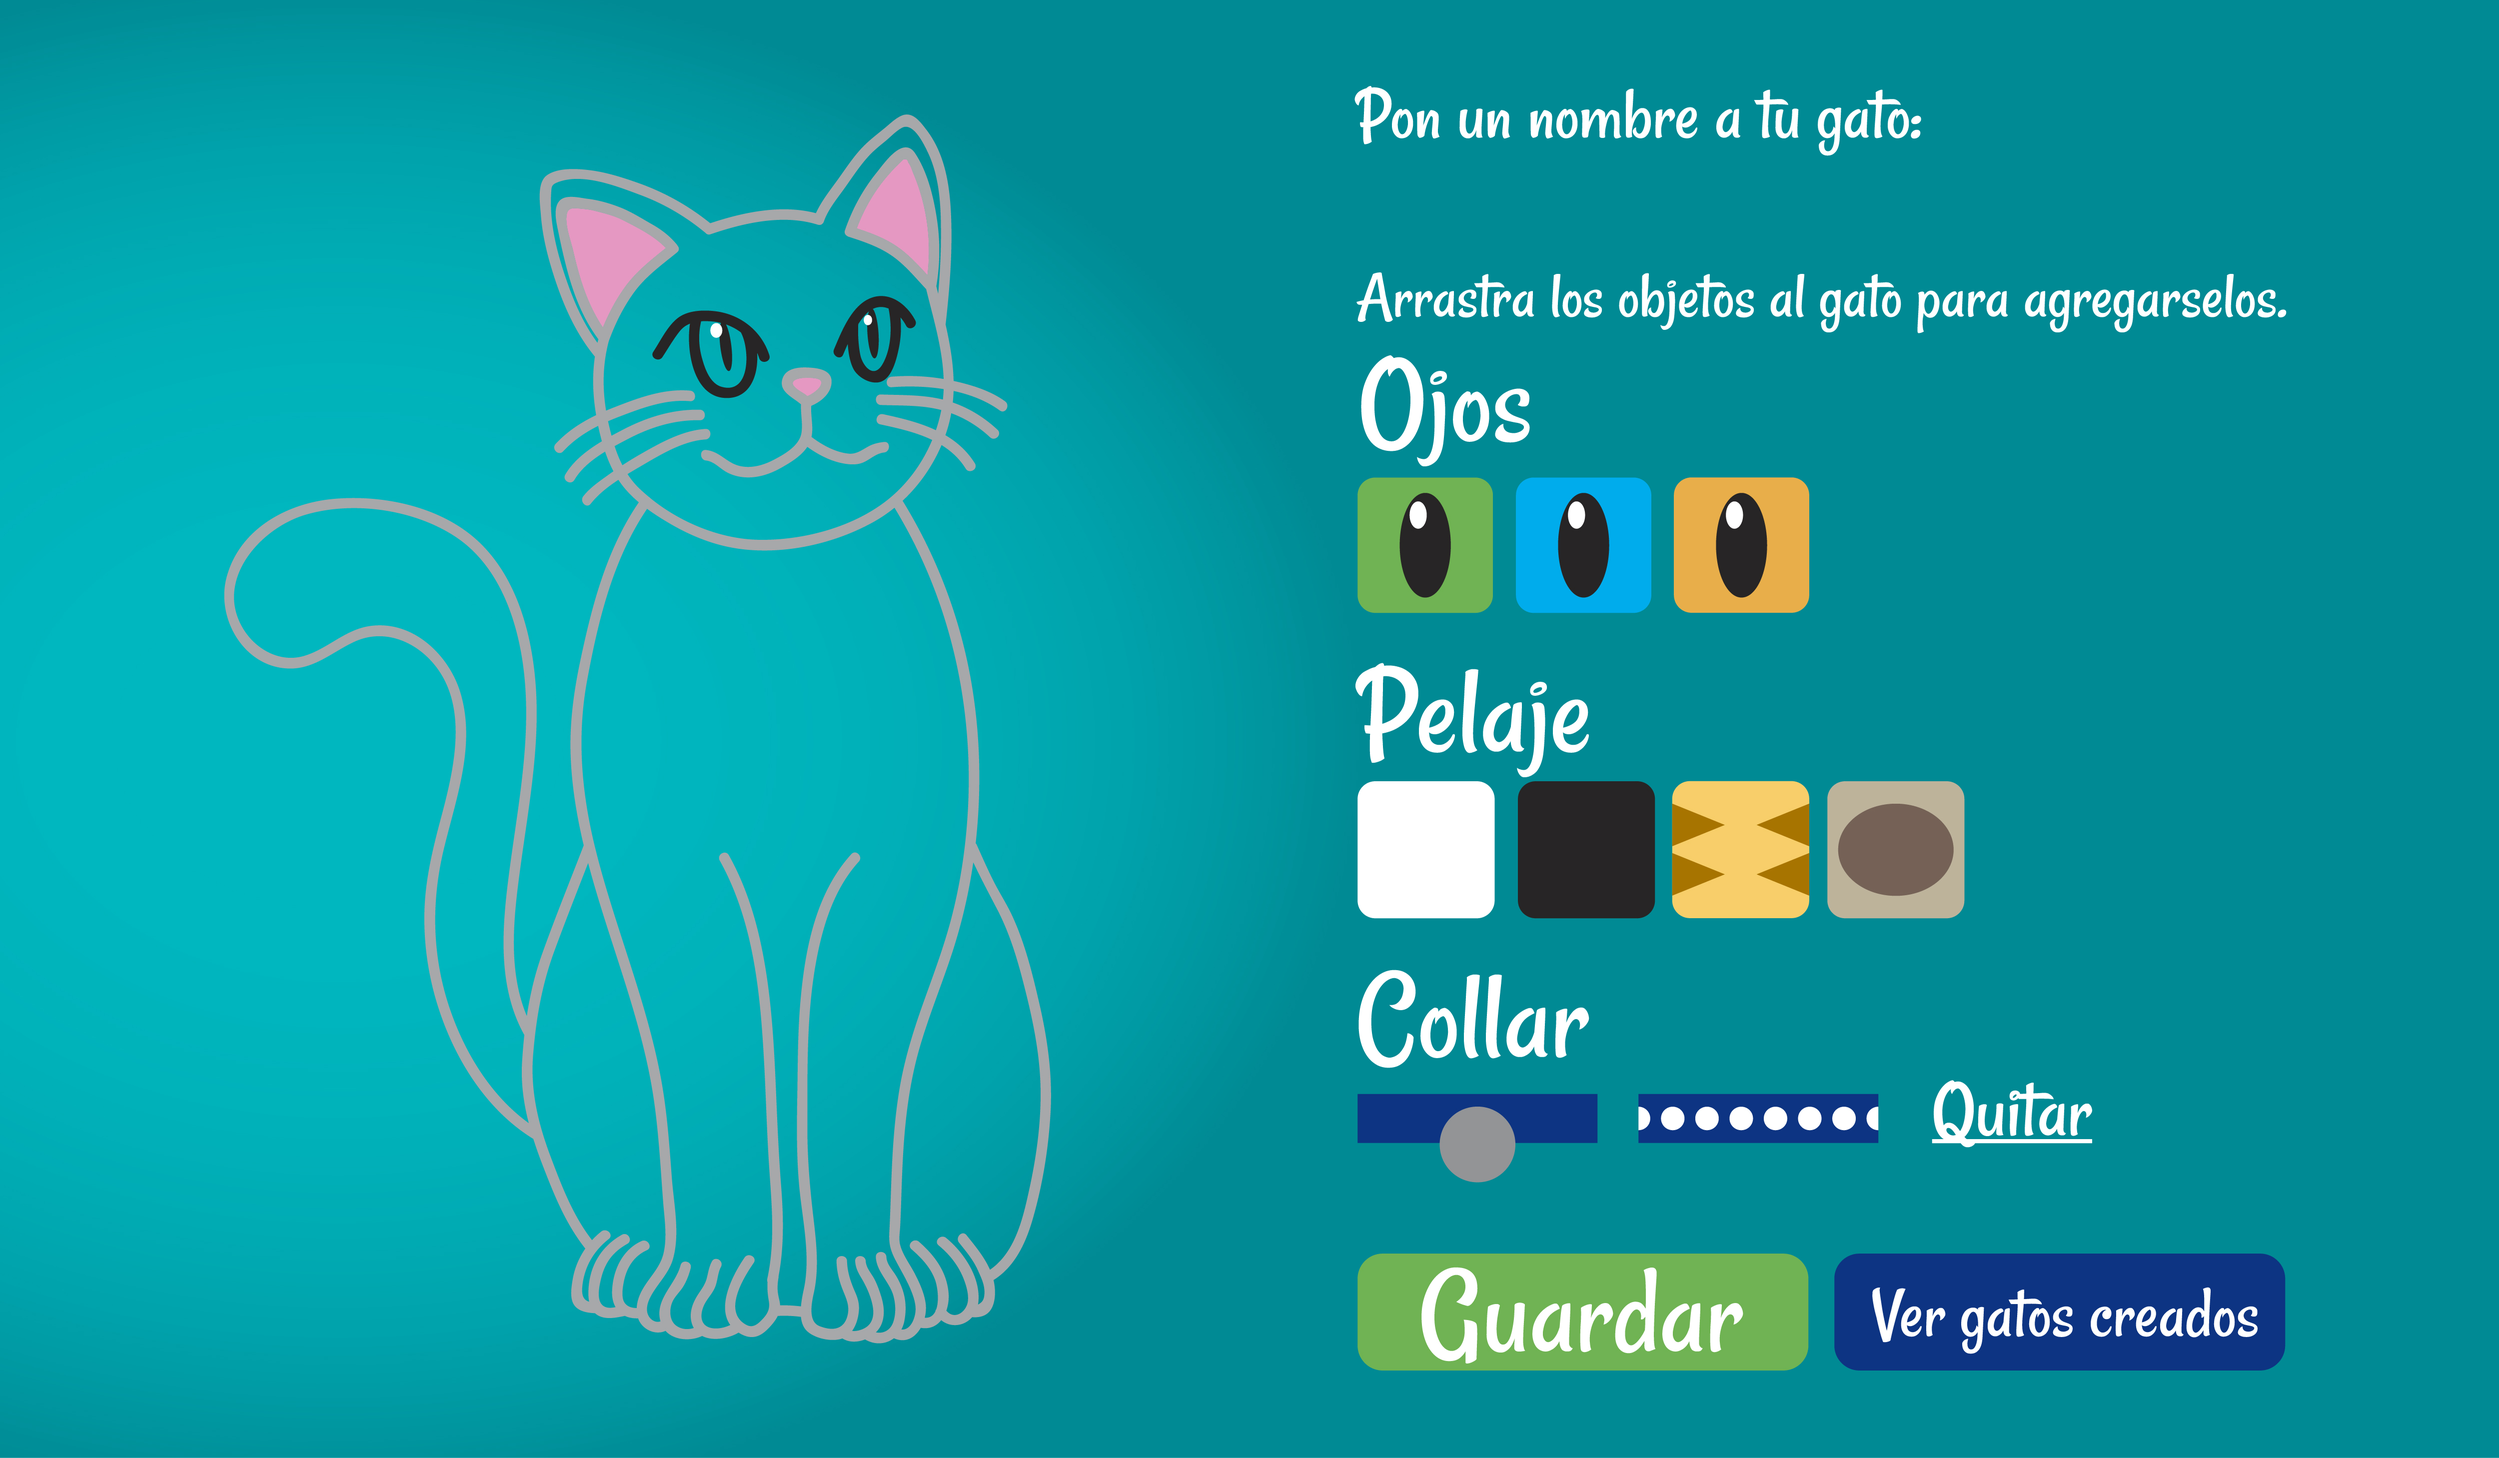
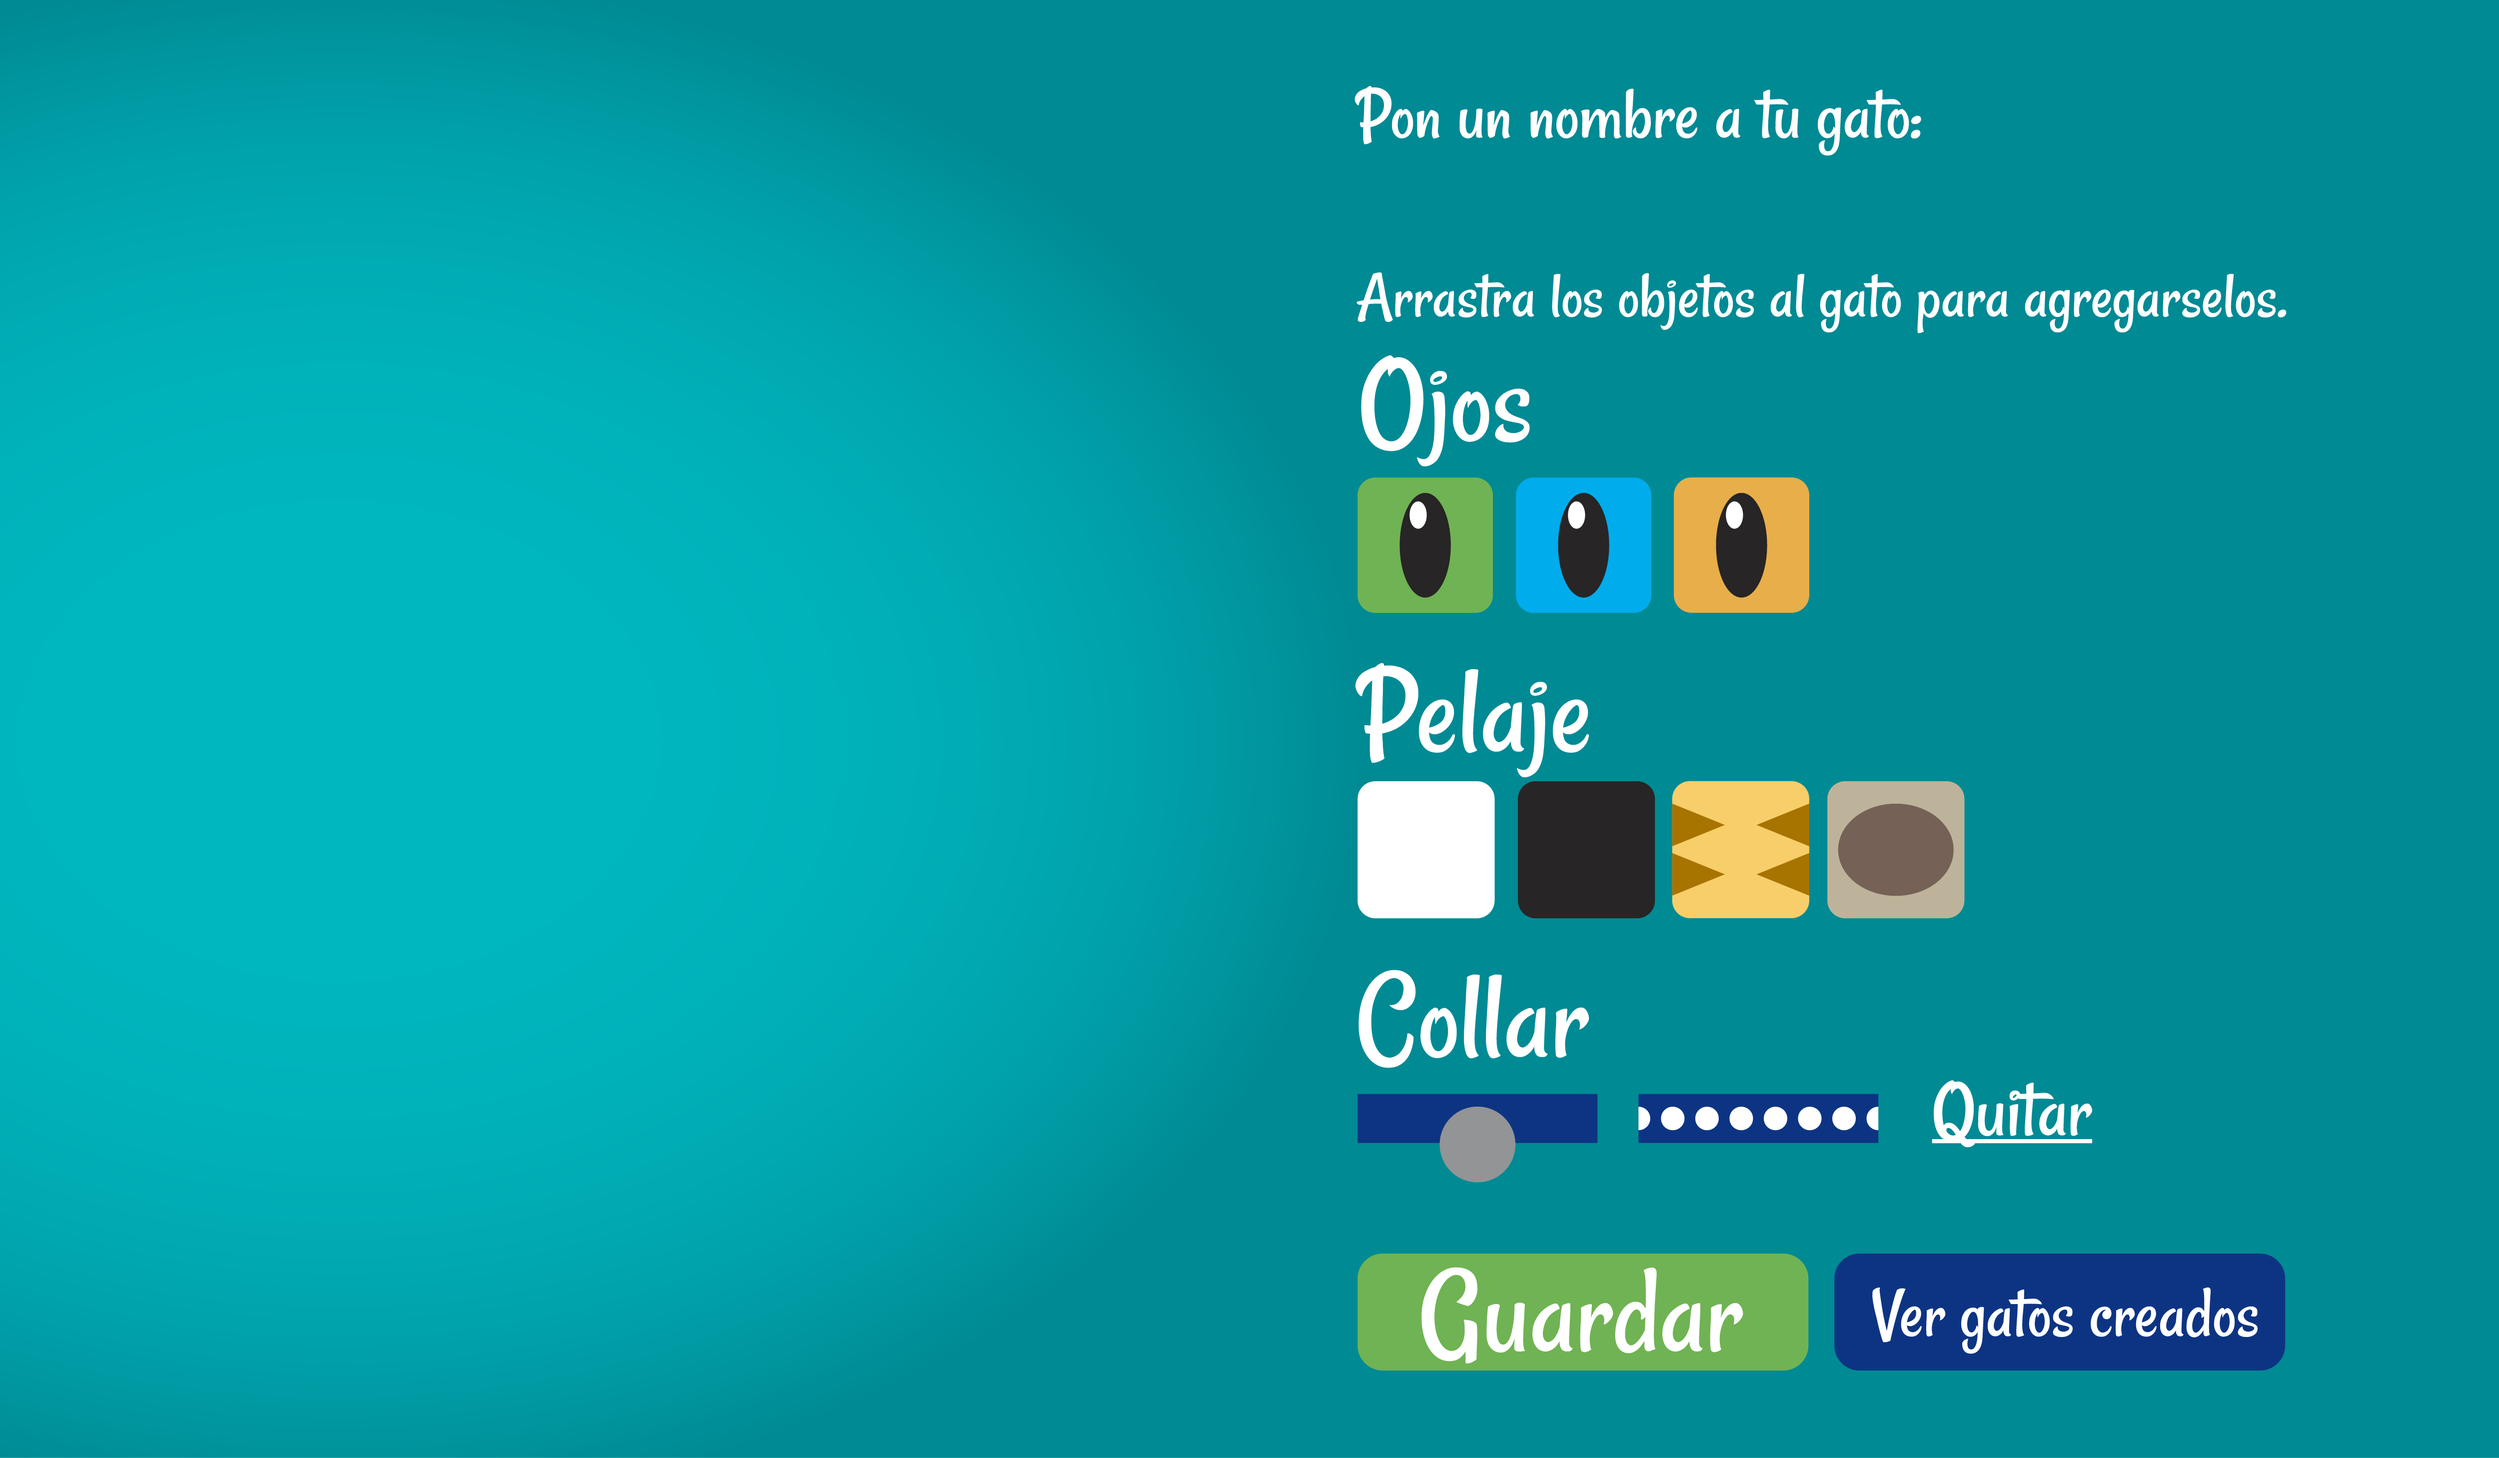
Agregue las pantallas y el input

diff --git a/src/js/modelo/Logica.js b/src/js/modelo/Logica.js
@@ -2,6 +2,7 @@ class Logica {
     constructor() {
         this.inicio = new Inicio();
         this.creador = new Creador();
+        this.guardado = new Guardado();
         this.pantalla = 0;
     }
 
@@ -12,12 +13,15 @@ class Logica {
                 break;
             case 1:
                 this.creador.dibujarCreador();
+                break;
+            case 2:
+                this.guardado.dibujaGuardado();
             default:
                 break;
         }
     }
 
-    cambiarPantalla() {
+    interaccionPantalla() {
         switch (this.pantalla) {
             case 0:
                 if (mouseX > 479 && mouseX < 717 && mouseY > 476 && mouseY < 562) {
@@ -25,9 +29,27 @@ class Logica {
                 }
                 break;
             case 1:
+                this.creador.activarInput(mouseX, mouseY);
+                if (mouseX > 881 && mouseX < 1096 && mouseY > 603 && mouseY < 656) {
+                    this.pantalla = 2;
+                }
+                break;
+            case 2:
+                if (mouseX > 64 && mouseX < 278 && mouseY > 51 && mouseY < 108) {
+                    this.pantalla = 1;
+                }
                 break;
             default:
                 break;
         }
+    }
+
+    escribirNombre() {
+        this.creador.escribirTextoInput(key);
+    }
+
+    borrarNombre() {
+        this.creador.eliminarTextoInput();
+
     }
 }

diff --git a/src/js/vista/Creador.js b/src/js/vista/Creador.js
@@ -1,9 +1,42 @@
 class Creador {
     constructor() {
-        this.pantalla = loadImage("./data/creador.jpg")
+        this.pantalla = loadImage("./data/creador.jpg");
+        this.input = new Input(655, 77);
+        this.personaje = new Personaje();
     }
 
     dibujarCreador() {
+        imageMode(CORNER);
         image(this.pantalla, 0, 0, 1200, 700);
+        if ((mouseX > 881 && mouseX < 1096 && mouseY > 601 && mouseY < 658) || (mouseX > 652 && mouseX < 868 && mouseY > 601 && mouseY < 658)) {
+            cursor(HAND);
+        } else {
+            cursor(ARROW);
+        }
+        this.input.pintar();
+        this.input.mostarTexto();
+        this.personaje.dibujarBase();
+        imageMode(CORNER);
+    }
+
+    activarInput(mX, mY) {
+        if (mX > 655 && mX < 920 && mY > 77 && mY < 107) {
+            this.input.setActivar(true);
+        } else {
+            this.input.setActivar(false);
+        }
+    }
+
+    escribirTextoInput(k) {
+        if (this.input.getActivar() && this.input.getTexto().length < 20) {
+            this.input.setTexto(this.input.getTexto() + k);
+        }
+    }
+
+    eliminarTextoInput() {
+        if (this.input.getActivar() && this.input.getTexto().length - 1 >= 0) {
+            let indice = this.input.getTexto().length - 1;
+            this.input.setTexto(this.input.getTexto().substring(0, indice));
+        }
     }
 }

diff --git a/src/js/modelo/Personaje.js b/src/js/modelo/Personaje.js
@@ -1,0 +1,60 @@
+class Personaje {
+    constructor(posX, posY, nombre, id, fecha) {
+        this.posX = posX;
+        this.posY = posY;
+        this.nombre = nombre;
+        this.id = id;
+        this.fecha = fecha;
+        this.pintarBase = loadImage("./data/basegato.png");
+    }
+
+    dibujarBase() {
+        imageMode(CENTER);
+        image(this.pintarBase, 306.186, 350);
+    }
+
+    moverPersonaje(mX, mY){
+        //if(mX>)
+    }
+
+    getPosX() {
+        return this.posX;
+    }
+
+    setPosX(posX) {
+        this.posX = posX;
+    }
+
+    getPosY() {
+        return this.posY;
+    }
+
+    setPosY(posY) {
+        this.posY = posY;
+    }
+
+    getNombre() {
+        return this.nombre;
+    }
+
+    setNombre(nombre) {
+        this.nombre = nombre;
+    }
+
+    getId() {
+        return this.id;
+    }
+
+    setId(id) {
+        this.id = id;
+    }
+
+    getFecha() {
+        return this.fecha;
+    }
+
+    setFecha(fecha) {
+        this.fecha = fecha;
+    }
+
+}

diff --git a/src/js/vista/Input.js b/src/js/vista/Input.js
@@ -1,0 +1,57 @@
+class Input {
+    constructor(posX, posY) {
+        this.posX = posX;
+        this.posY = posY;
+        this.activar = false;
+        this.texto = "";
+    }
+
+    pintar() {
+        if (this.activar) {
+            stroke(255, 0, 0);
+        } else {
+            stroke(0);
+        }
+        fill(255);
+        rect(this.posX, this.posY, 265, 30);
+    }
+
+    mostarTexto() {
+        fill(0);
+        noStroke()
+        textSize(15);
+        text(this.texto, this.posX + 10, this.posY + 20);
+    }
+
+    getPosX() {
+        return this.posX;
+    }
+
+    setPosX(posX) {
+        this.posX = posX;
+    }
+
+    getPosY() {
+        return this.posY;
+    }
+
+    setPosY(posY) {
+        this.posY = posY;
+    }
+
+    getActivar() {
+        return this.activar;
+    }
+
+    setActivar(activar) {
+        this.activar = activar;
+    }
+
+    getTexto() {
+        return this.texto;
+    }
+
+    setTexto(texto) {
+        this.texto = texto;
+    }
+}

diff --git a/src/js/vista/Ejecutable.js b/src/js/vista/Ejecutable.js
@@ -10,10 +10,17 @@ function draw() {
     logica.dibujarPantalla();
 }
 
+function keyTyped() {
+    if (keyCode != BACKSPACE) {
+        logica.escribirNombre();
+    } else {
+        logica.borrarNombre();
+    }
+}
+
 function mousePressed() {
     console.log("x: " + mouseX + " " + "y: " + mouseY);
-    logica.cambiarPantalla();
-
+    logica.interaccionPantalla();
 }
 
 function mouseDragged() {

diff --git a/src/js/vista/Guardado.js b/src/js/vista/Guardado.js
@@ -1,0 +1,14 @@
+class Guardado {
+    constructor() {
+        this.pantalla = loadImage("./data/guardados.jpg");
+    }
+
+    dibujaGuardado() {
+        image(this.pantalla, 0, 0, 1200, 700);
+        if (mouseX > 64 && mouseX < 278 && mouseY > 51 && mouseY < 108) {
+            cursor(HAND);
+        } else {
+            cursor(ARROW);
+        }
+    }
+}

diff --git a/src/js/vista/Inicio.js b/src/js/vista/Inicio.js
@@ -5,5 +5,10 @@ class Inicio {
 
     dibujarInicio() {
         image(this.pantalla, 0, 0, 1200, 700);
+        if (mouseX > 479 && mouseX < 717 && mouseY > 476 && mouseY < 562) {
+            cursor(HAND);
+        } else {
+            cursor(ARROW);
+        }
     }
 }
